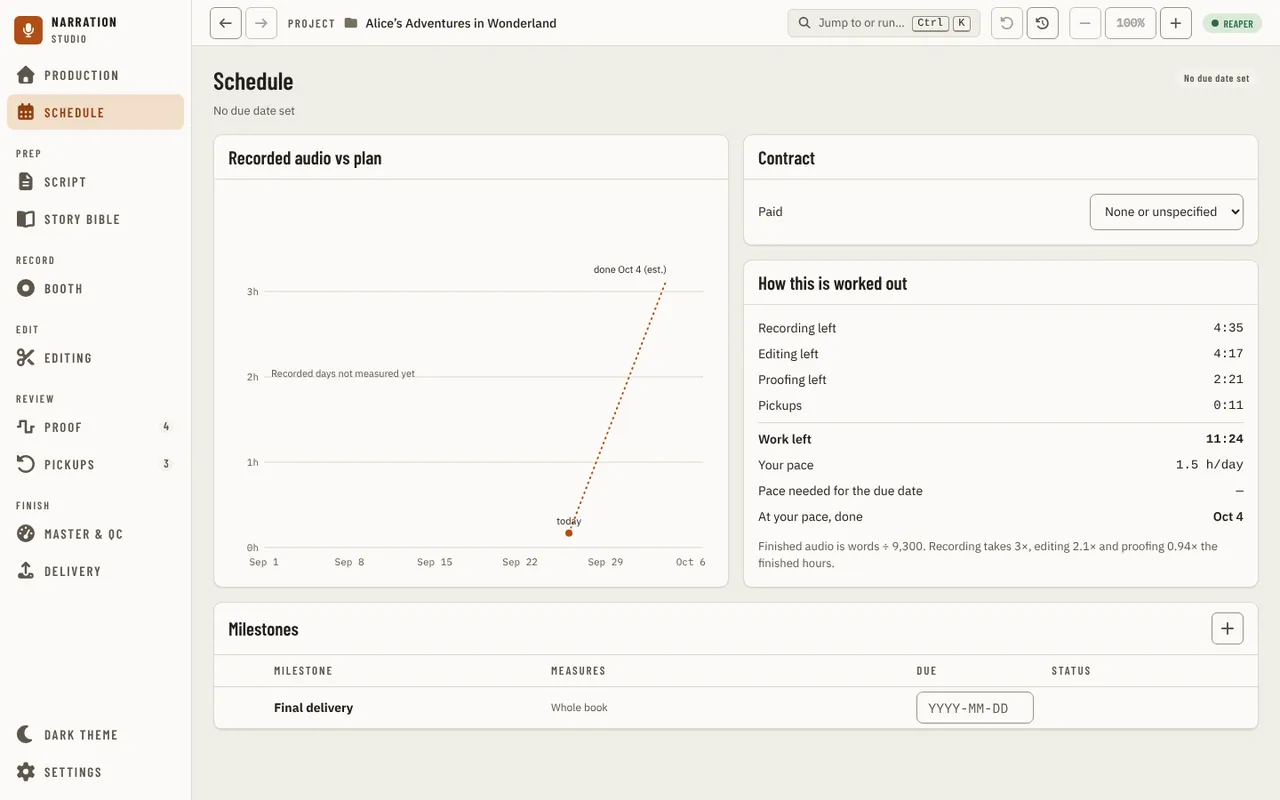
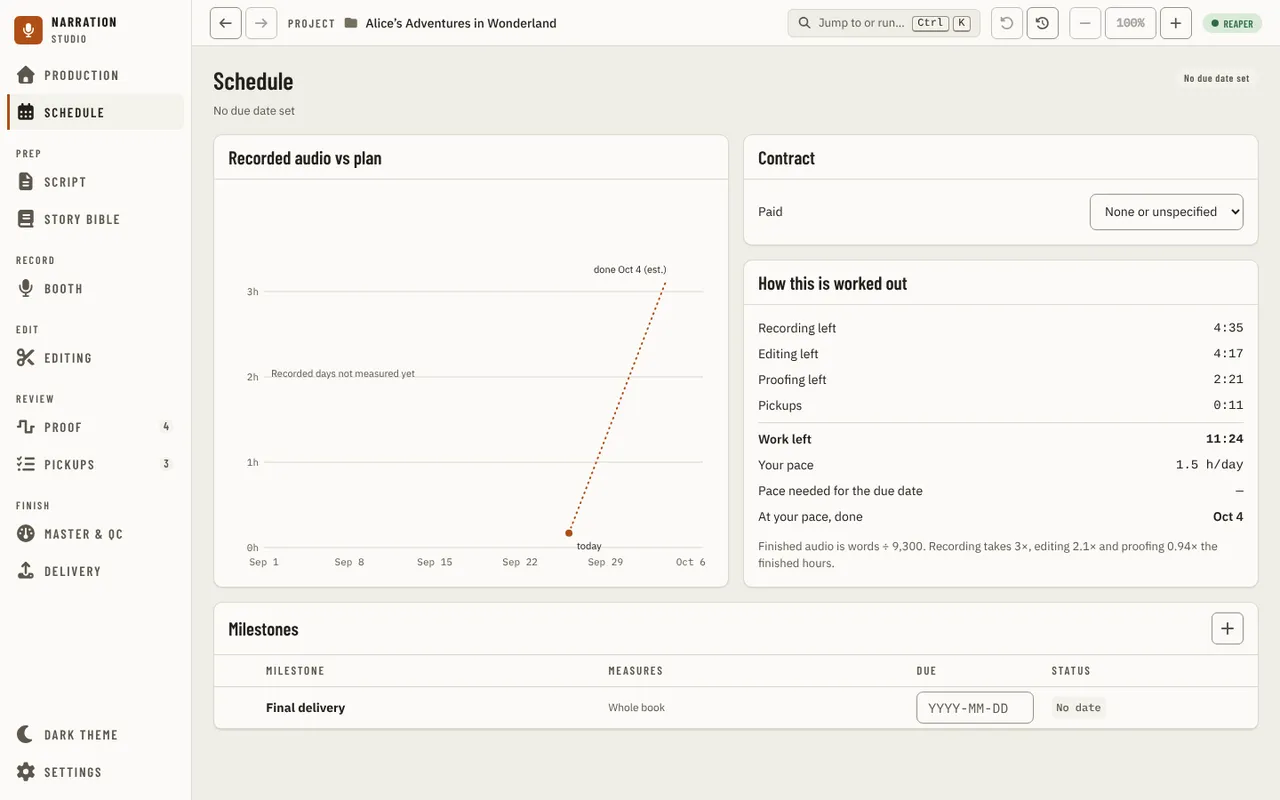
fix(ui): widen Schedule's Milestone column, add a no-due-date status, clear the today label
Refs #1775

Claude-Session: https://claude.ai/code/session_01DfRtjt4aK1398p3z9EUf5t

diff --git a/apps/ui/src/components/schedule/MilestoneTable.tsx b/apps/ui/src/components/schedule/MilestoneTable.tsx
@@ -23,6 +23,9 @@ function StatusCell({ status }: { status: MilestoneStatus }) {
   );
 }
 
+/** The Final delivery status while the book has no due date: a pace cannot be judged, and the cell says so instead of staying blank. */
+const NO_DUE: MilestoneStatus = { kind: 'none', sentence: 'No due date yet. Set one to see if you are on pace.', short: 'No date' };
+
 export type MilestoneTableProps = {
   milestones: readonly ProductionMilestone[];
   chapters: readonly ScheduleChapter[];
@@ -51,7 +54,7 @@ export function MilestoneTable({ milestones, chapters, today, due, onToggleDone,
       <TableHead>
         <TableRow>
           <TableHeader hiddenLabel="Done" />
-          <TableHeader>Milestone</TableHeader>
+          <TableHeader className="min-w-[10rem]">Milestone</TableHeader>
           {/* The mock's column sizes: Measures keeps room for "All recorded" on one line, and Due is a date wide (152 px) whatever a milestone is called. */}
           <TableHeader className="md:min-w-[9rem]">Measures</TableHeader>
           <TableHeader className="w-[9.5rem]">Due</TableHeader>
@@ -104,7 +107,13 @@ export function MilestoneTable({ milestones, chapters, today, due, onToggleDone,
           <TableCell className="min-w-[9.5rem]">
             <DueField value={due ?? ''} onCommit={onDueChange} />
           </TableCell>
-          <TableCell>{final ? <StatusCell status={final} /> : null}</TableCell>
+          <TableCell>
+            <span data-final-status="" role="img" aria-label={(final ?? NO_DUE).sentence}>
+              <TooltipTarget text={(final ?? NO_DUE).sentence}>
+                <StatusBadge shape="cell" tone={STATUS_TONE[(final ?? NO_DUE).kind]} label={(final ?? NO_DUE).short} />
+              </TooltipTarget>
+            </span>
+          </TableCell>
           <TableCell />
         </TableRow>
       </TableBody>

diff --git a/apps/ui/src/components/production/overview/ProgressChart.tsx b/apps/ui/src/components/production/overview/ProgressChart.tsx
@@ -66,6 +66,9 @@ export function ProgressChart({ k, wph, start, today, due, recordedHours, series
   const pxPerDay = (width - PAD.left - PAD.right) / span;
   const step = Math.max(7, Math.ceil(TICK_GAP / pxPerDay / 7) * 7);
   for (let d = 0; d <= span; d += step) weeks.push(d);
+  const planDays = due ? diffDays(due, start) : 0;
+  const aheadOfPlan = planDays > 0 && y(recordedHours) < y((finishedHours * nowDay) / planDays);
+  const todayBelow = !aheadOfPlan || x(today) < PAD.left + 40;
   const rows = Array.from({ length: yMax + 1 }, (_, v) => v).slice(0, 4);
   const summary = `Plan starts ${fmtD(start)}${due ? `, due ${fmtD(due)}` : ', no due date'}. Today is ${fmtD(today)}, ${recordedHours.toFixed(1)} of ${finishedHours.toFixed(1)} finished hours recorded. Estimated finish ${fmtD(k.finish)}.`;
 
@@ -141,7 +144,14 @@ export function ProgressChart({ k, wph, start, today, due, recordedHours, series
             data-line="projection"
           />
           <circle cx={x(today)} cy={y(recordedHours)} r="5" fill="var(--accent)" stroke="var(--surface)" strokeWidth="2" data-marker="today" />
-          <text x={x(today)} y={y(recordedHours) - 10} textAnchor="middle" fontSize="11" fill="var(--text)">
+          {/* Beside the dot, on the side the plan line is not: above and left when the recording is ahead of the plan (the plan passes below), below and right otherwise. The projection runs up and right from the dot, so the right side is only taken below it. */}
+          <text
+            x={todayBelow ? x(today) + 9 : x(today) - 7}
+            y={y(recordedHours) + (todayBelow ? 18 : -14)}
+            textAnchor={todayBelow ? 'start' : 'end'}
+            fontSize="11"
+            fill="var(--text)"
+          >
             today
           </text>
           <text

diff --git a/apps/ui/src/components/production/overview/overview.test.tsx b/apps/ui/src/components/production/overview/overview.test.tsx
@@ -166,6 +166,16 @@ describe('ProgressChart', () => {
     expect(document.getElementById(svg.getAttribute('aria-describedby') ?? '')?.textContent).toMatch(/starts .*due .*Today is .*Estimated finish/);
   });
 
+  it('chart-today-label-clears-the-estimate-line: never centred over the dot, where the projection runs up and right from it', () => {
+    const { container } = chart();
+    const dot = container.querySelector('[data-marker="today"]') as SVGCircleElement;
+    const label = screen.getByText('today');
+    const [x, y, cx, cy] = [label.getAttribute('x'), label.getAttribute('y'), dot.getAttribute('cx'), dot.getAttribute('cy')].map(Number);
+    // Left of the dot and above it (recording ahead of the plan), or right of it and below (behind it, or no room on the left).
+    if (label.getAttribute('text-anchor') === 'end') expect([x < cx, y < cy]).toEqual([true, true]);
+    else expect([label.getAttribute('text-anchor'), x > cx, y > cy]).toEqual(['start', true, true]);
+  });
+
   it('chart without a take log has no actual line and says why', () => {
     const { container } = chart(MID_BOOK, NO_TAKE_LOG);
     expect(container.querySelector('[data-line="actual"]')).toBeNull();

diff --git a/apps/ui/src/components/schedule/SchedulePage.dates.test.tsx b/apps/ui/src/components/schedule/SchedulePage.dates.test.tsx
@@ -46,6 +46,18 @@ describe('what the header and the verdict say about the days', () => {
     expect(screen.getByText('Near').closest('tr')?.textContent).toMatch(/Nov 1(?!,)/);
   });
 
+  it('says so in the Final delivery status when no due date is set, and gives it a status once one is', async () => {
+    await mountSchedule({ seed: { deadline: null } });
+    await dueField();
+    const status = () => document.querySelector('[data-final-status]');
+    expect(status()?.textContent).toBe('No date');
+    expect(status()?.getAttribute('aria-label')).toMatch(/No due date yet/);
+    cleanup();
+    await mountSchedule({ seed: { deadline: '2026-11-30' } });
+    await dueField();
+    expect(status()?.textContent).not.toBe('No date');
+  });
+
   it('draws a chart without a plan line when the due date is before the plan starts', async () => {
     await mountSchedule({ seed: { deadline: '2026-09-20' } });
     await dueField();

diff --git a/apps/ui/src/components/schedule/SchedulePage.scale.test.tsx b/apps/ui/src/components/schedule/SchedulePage.scale.test.tsx
@@ -20,6 +20,12 @@ describe('how many', () => {
     expect(document.querySelectorAll('[data-name]')).toHaveLength(0);
   });
 
+  it('keeps the Milestone column readable beside a 200-character name', async () => {
+    await mountSchedule({ seed: { milestones: [{ name: 'x'.repeat(200), dueDate: '2026-10-25' }] } });
+    await screen.findByText('Final delivery');
+    expect(screen.getByRole('columnheader', { name: 'Milestone' }).className).toContain('min-w-[10rem]');
+  });
+
   it('draws five hundred milestones read from a hand-edited plan, in a few seconds (the host saves at most a hundred; a plan edited by hand can hold more)', async () => {
     const started = Date.now();
     await mountSchedule({ seed: { milestones: many(500) } });

diff --git a/docs/guides/using-the-app/schedule.md b/docs/guides/using-the-app/schedule.md
@@ -29,7 +29,8 @@ the finished hours, editing 2.1× and proofing 0.94×, a pickup takes 0.06 hours
 pace, done** is today plus the work left divided by that pace.
 
 The chart, **Recorded audio vs plan**, draws the plan as a dashed line to the due date, the recorded days as a solid line when
-the app can read them (otherwise it says why it cannot), today, and the estimated finish as a dotted line.
+the app can read them (otherwise it says why it cannot), today (its label sits left of the dot, clear of the dotted line), and the
+estimated finish as a dotted line.
 
 ## Contract
 
@@ -41,12 +42,12 @@ refused with a message and the box goes back to the stored amount. A refusal's m
 
 ## Milestones
 
-The table lists your milestones by date, with the **Final delivery** row, the book's due date, at the end. Each row has:
+The table lists your milestones by date (the Milestone column keeps a readable width, so a long name wraps in it and the table scrolls sideways in a narrow window), with the **Final delivery** row, the book's due date, at the end. Each row has:
 
 - a **done** toggle. A done milestone reads **Done** and is never estimated.
 - a name, what it **measures** (a custom milestone measures nothing), and its date.
 - a status cell: **Late by 3 d**, **At risk** or **On track** with the estimated date, or **Not estimated** for a custom one.
-  Hover or focus it for the full sentence.
+  Hover or focus it for the full sentence. **Final delivery** reads **No date** until a due date is set.
 - a note button (hover it to read the note; with no note it offers to add one), **Edit** and **Remove**. Removing offers Undo.
 
 ![Schedule - the Add milestone dialog: name, due date, what it measures, a note and Done](../../images/ui/schedule-milestone-dialog.webp)
